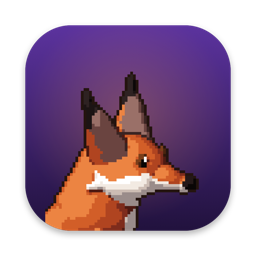
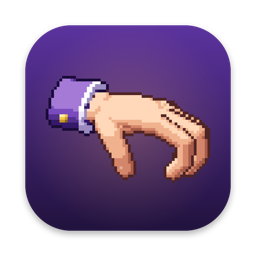
Handry'nin eli: ekranda parmaklarının üstünde yürüyen piksel art el (Thing gibi; mor kol ağzı, altın düğme), yeni ikon ve menü çubuğunda kalkmış el. Uyandırma "Hey Handry" (Hey Foxie / Hey Fox da çalışıyor).
- app/hand/make.mjs: küçük bir 3B el her kare için pozlanıp yandan ışın izlenerek piksel art çiziliyor (dört ton gölge, dış çizgi); tilkiyle aynı sprite seti (manifest + 21 animasyon, ayrıca listen_out, bored_in, bored_out): yürüme/koşma (parmak uçları kaymıyor), dönüş, 'Hey Handry'de avucu sana dönük kalkma, laptop'ta yazma, sevilince kalpler, sevinçte jazz hands, sıkılınca parmaklarla tempo, sırtüstü uyku ve Z'ler, kol ağzından/sırtından tutulma, pencere köşesinden sarkma. İkon (çapraz yandan) ve menü çubuğu simgesi de buradan. Çıktılar git'te değil; derleme üretir (4 sn).
- Fox.swift: döngülerin giriş/çıkış animasyonu (<ad>_in / <ad>_out), retire(). JEVIS.swift: menüde 'Ekrandaki El ▸' (gizle/göster, uyut, boyut, El / Tilki seçimi; varsayılan el).
- build.js: iki hayvanın sprite'ları Resources/pets/{hand,fox}; ikon elden. icon.swift el sanatını mor kareye koyuyor.
- Listener: ipuçlarına 'Hey Handry', 'Hendri'. Sentetik sesle (Yelda) 'Hey Hendri, Spotify'ı aç' uyandırıyor; 'Handry' yazıldığı gibi ve yalnız ad yanlış duyuldu (Seyhan, Android, Camby): testte not edildi. listener-e2e 7/7.
- Beynin kendini tanıtması el için güncellendi.
Testler: mcp-smoke 11/11, chats 9/9, timers 15/15, timers-ui 10/10, files-change 11/11, listener 7/7. Uygulama yeniden kuruldu: sunucu 4263'te, el Dock'un üstünde yürüyor.

Changed region(s): [[0.1562, 0.2812, 0.8438, 0.9062]]

diff --git a/app/macos/JEVIS.swift b/app/macos/JEVIS.swift
@@ -3,10 +3,11 @@
 //   - the bar: a compact field that drops from the top of the screen
 //     (app/public/bar.html on a floating panel), and
 //   - the big window: the full chat with details and history,
-//   - Foxie, the fox on the screen (Fox.swift), which shows what it is doing.
+//   - the pet on the screen (Fox.swift): the hand that walks on its fingers,
+//     or Foxie the fox; it shows what the assistant is doing.
 // The permissions window (Permissions.swift) asks for everything in one place.
 // It also owns the microphone (Listener.swift): push to talk, the bar's mic
-// button and "Hey Jev". Built by `node cli.js app build`.
+// button and the wake word ("Hey Handry"). Built by `node cli.js app build`.
 //   ⌥Space        open / close the bar
 //   ⌥⇧Space       hold to talk (push to talk)
 //   ⌥Esc          emergency stop
@@ -29,7 +30,7 @@ let APP_NAME = info["CFBundleDisplayName"] as? String ?? "Handry"
 let APP_ACC = info["AppAccusative"] as? String ?? "\(APP_NAME)'yu"
 let APP_ABL = info["AppAblative"] as? String ?? "\(APP_NAME)'dan"
 let APP_GEN = info["AppGenitive"] as? String ?? "\(APP_NAME)'nun"
-let WAKE_LABEL = info["WakeLabel"] as? String ?? "Hey Foxie"
+let WAKE_LABEL = info["WakeLabel"] as? String ?? "Hey Handry"
 let BAR_WIDTH: CGFloat = 680
 let BAR_HEIGHT: CGFloat = 58
 
@@ -184,7 +185,7 @@ final class AppDelegate: NSObject, NSApplicationDelegate, WKUIDelegate, NSWindow
             statusItem.button?.imagePosition = .imageLeading
             statusItem.button?.title = ""
         } else {
-            statusItem.button?.title = "🦊"
+            statusItem.button?.title = "✋"
         }
         statusItem.button?.toolTip = APP_NAME
         statusItem.button?.font = NSFont.monospacedDigitSystemFont(ofSize: NSFont.systemFontSize, weight: .regular)
@@ -219,21 +220,32 @@ final class AppDelegate: NSObject, NSApplicationDelegate, WKUIDelegate, NSWindow
         return i
     }
 
-    // MARK: The fox
+    // MARK: The pet on the screen (the hand or the fox)
+
+    /// The pets: their sprites in the app (Resources/pets/<id>) or in the project, and their names in the menu.
+    static let pets: [(id: String, name: String, acc: String, project: String)] = [
+        ("hand", "El", "Eli", "app/hand/sprites"),
+        ("fox", "Tilki", "Tilkiyi", "app/foxie/sprites")
+    ]
+    var pet: (id: String, name: String, acc: String, project: String) {
+        let id = UserDefaults.standard.string(forKey: "pet") ?? "hand"
+        return Self.pets.first { $0.id == id } ?? Self.pets[0]
+    }
 
     func makeFox() {
-        let dir = Bundle.main.resourceURL?.appendingPathComponent("sprites")
-        let fallback = URL(fileURLWithPath: "\(ROOT)/app/foxie/sprites")
-        fox = FoxPet(spritesDir: dir.flatMap { FileManager.default.fileExists(atPath: $0.path) ? $0 : nil } ?? fallback)
+        let bundled = Bundle.main.resourceURL?.appendingPathComponent("pets/\(pet.id)")
+        let fallback = URL(fileURLWithPath: "\(ROOT)/\(pet.project)")
+        fox = FoxPet(spritesDir: bundled.flatMap { FileManager.default.fileExists(atPath: $0.path) ? $0 : nil } ?? fallback)
         fox?.menuProvider = { [weak self] in self?.foxMenuItem().submenu ?? NSMenu() }
     }
 
-    /// "Tilki ▸": show or hide it, put it to sleep, its size.
+    /// "Ekrandaki El ▸": show or hide it, put it to sleep, its size, which one.
     func foxMenuItem() -> NSMenuItem {
-        let root = NSMenuItem(title: "Tilki", action: nil, keyEquivalent: "")
+        let root = NSMenuItem(title: "Ekrandaki \(pet.name)", action: nil, keyEquivalent: "")
+        root.tag = 913
         let menu = NSMenu()
         menu.delegate = self
-        let toggle = item(fox?.visible == false ? "Tilkiyi Göster" : "Tilkiyi Gizle", #selector(toggleFox))
+        let toggle = item(fox?.visible == false ? "\(pet.acc) Göster" : "\(pet.acc) Gizle", #selector(toggleFox))
         toggle.tag = 910
         menu.addItem(toggle)
         menu.addItem(item("Uyut", #selector(foxSleep)))
@@ -245,6 +257,14 @@ final class AppDelegate: NSObject, NSApplicationDelegate, WKUIDelegate, NSWindow
             size.state = abs(Double(fox?.scale ?? 0) - value) < 0.01 ? .on : .off
             menu.addItem(size)
         }
+        menu.addItem(.separator())
+        for p in Self.pets {
+            let choice = item(p.name, #selector(choosePet(_:)))
+            choice.representedObject = p.id
+            choice.tag = 912
+            choice.state = p.id == pet.id ? .on : .off
+            menu.addItem(choice)
+        }
         root.submenu = menu
         return root
     }
@@ -255,6 +275,15 @@ final class AppDelegate: NSObject, NSApplicationDelegate, WKUIDelegate, NSWindow
     }
 
     @objc func foxSleep() { fox?.sleepNow() }
+
+    /// The other pet: the old one leaves the screen, the new one comes out where the old one was.
+    @objc func choosePet(_ sender: NSMenuItem) {
+        guard let id = sender.representedObject as? String, id != pet.id else { return }
+        fox?.retire()
+        UserDefaults.standard.set(id, forKey: "pet")
+        UserDefaults.standard.set(false, forKey: "foxHidden")
+        makeFox()
+    }
 
     @objc func foxSize(_ sender: NSMenuItem) {
         guard let value = sender.representedObject as? Double else { return }
@@ -305,7 +334,7 @@ final class AppDelegate: NSObject, NSApplicationDelegate, WKUIDelegate, NSWindow
         return s >= 3600 ? "\(s / 3600) sa \((s % 3600) / 60) dk" : String(format: "%d:%02d", s / 60, s % 60)
     }
 
-    /// The fox in the menu bar widens to the left while something waits: the nearest time, how many there are, a shutdown countdown.
+    /// The hand in the menu bar widens to the left while something waits: the nearest time, how many there are, a shutdown countdown.
     func watchTimers() {
         Timer.scheduledTimer(withTimeInterval: 1, repeats: true) { [weak self] _ in
             guard let self, Date() > self.flashUntil else { return }
@@ -327,7 +356,9 @@ final class AppDelegate: NSObject, NSApplicationDelegate, WKUIDelegate, NSWindow
 
     /// Before the menu opens: the timers at the top, each with "Sohbeti Aç" / "İptal Et".
     func menuNeedsUpdate(_ menu: NSMenu) {
-        for entry in menu.items where entry.tag == 910 { entry.title = fox?.visible == false ? "Tilkiyi Göster" : "Tilkiyi Gizle" }
+        for entry in menu.items where entry.tag == 910 { entry.title = fox?.visible == false ? "\(pet.acc) Göster" : "\(pet.acc) Gizle" }
+        for entry in menu.items where entry.tag == 912 { entry.state = entry.representedObject as? String == pet.id ? .on : .off }
+        for entry in menu.items where entry.tag == 913 { entry.title = "Ekrandaki \(pet.name)" }
         for entry in menu.items where entry.tag == 911 { entry.state = abs(Double(fox?.scale ?? 0) - (entry.representedObject as? Double ?? -1)) < 0.01 ? .on : .off }
         guard menu === statusItem.menu else { return }
         for old in menu.items where old.tag == 900 { menu.removeItem(old) }

diff --git a/app/macos/icon.swift b/app/macos/icon.swift
@@ -1,22 +1,18 @@
-// Draws Foxie's icons from the fox sprite itself (app/foxie/sprites/idle/0001.png):
-//   - the app icon, 1024×1024: the fox's head and shoulders, scaled up pixel
-//     for pixel (no smoothing), on a deep purple rounded square (purpfox's
-//     colour) on the macOS icon grid (824 px body, soft shadow);
-//   - the menu bar icon, 36×36: a simple fox head glyph in black (a template
-//     image: macOS colours it for light and dark menu bars).
-// Usage: icon <sprite.png> <app-icon.png> <menubar.png>
+// Draws the app icon, 1024×1024, from the hand's icon art (app/hand/icon/art.png,
+// 64×64, drawn by app/hand/make.mjs): the art scaled up pixel for pixel (no
+// smoothing, 11 screen pixels each) on a deep purple rounded square (purpfox's
+// colour) on the macOS icon grid (824 px body, soft shadow). The menu bar glyph
+// comes ready from make.mjs (app/hand/icon/menubar.png).
+// Usage: icon <art.png> <app-icon.png>
 import AppKit
 
 let args = CommandLine.arguments
-guard args.count == 4, let sprite = NSImage(contentsOfFile: args[1])?.cgImage(forProposedRect: nil, context: nil, hints: nil) else {
-    print("Kullanım: icon <sprite.png> <app-icon.png> <menubar.png>")
+guard args.count == 3, let art = NSImage(contentsOfFile: args[1])?.cgImage(forProposedRect: nil, context: nil, hints: nil) else {
+    print("Kullanım: icon <art.png> <app-icon.png>")
     exit(1)
 }
 let srgb = CGColorSpace(name: CGColorSpace.sRGB)!
 let color = { (r: CGFloat, g: CGFloat, b: CGFloat, a: CGFloat) in CGColor(colorSpace: srgb, components: [r, g, b, a])! }
-
-// Where the head is in the 180×146 sitting frame (sprite pixels, top-left origin).
-let bust = CGRect(x: 100, y: 24, width: 64, height: 64)   // ears, head, chest
 
 func bitmap(_ w: Int, _ h: Int) -> CGContext {
     CGContext(data: nil, width: w, height: h, bitsPerComponent: 8, bytesPerRow: 0, space: srgb,
@@ -27,8 +23,6 @@ func write(_ ctx: CGContext, _ path: String) {
     let rep = NSBitmapImageRep(cgImage: ctx.makeImage()!)
     try! rep.representation(using: .png, properties: [:])!.write(to: URL(fileURLWithPath: path))
 }
-
-// MARK: App icon
 
 let icon = bitmap(1024, 1024)
 let body = CGRect(x: 100, y: 100, width: 824, height: 824)
@@ -43,32 +37,15 @@ icon.restoreGState()
 icon.saveGState()
 icon.addPath(shape)
 icon.clip()
-// Night purple, lighter towards the top, with a soft glow behind the head.
+// Night purple, lighter towards the top, with a soft warm glow behind the hand.
 let fill = CGGradient(colorsSpace: srgb, colors: [color(0.36, 0.20, 0.62, 1), color(0.13, 0.07, 0.24, 1)] as CFArray, locations: [0, 1])!
 icon.drawLinearGradient(fill, start: CGPoint(x: 512, y: 924), end: CGPoint(x: 512, y: 100), options: [])
-let glow = CGGradient(colorsSpace: srgb, colors: [color(1, 0.62, 0.30, 0.30), color(1, 0.62, 0.30, 0)] as CFArray, locations: [0, 1])!
-icon.drawRadialGradient(glow, startCenter: CGPoint(x: 512, y: 560), startRadius: 0, endCenter: CGPoint(x: 512, y: 560), endRadius: 420, options: [])
-// The bust, 11 screen pixels per sprite pixel, standing on the bottom edge.
+let glow = CGGradient(colorsSpace: srgb, colors: [color(1, 0.72, 0.45, 0.26), color(1, 0.72, 0.45, 0)] as CFArray, locations: [0, 1])!
+icon.drawRadialGradient(glow, startCenter: CGPoint(x: 512, y: 520), startRadius: 0, endCenter: CGPoint(x: 512, y: 520), endRadius: 420, options: [])
+// The hand, 11 screen pixels per art pixel, in the middle.
 let scale: CGFloat = 11
-let crop = sprite.cropping(to: bust)!
+let size = CGSize(width: CGFloat(art.width) * scale, height: CGFloat(art.height) * scale)
 icon.interpolationQuality = .none
-icon.draw(crop, in: CGRect(x: 512 - bust.width * scale / 2 + 20, y: 100, width: bust.width * scale, height: bust.height * scale))
+icon.draw(art, in: CGRect(x: 512 - size.width / 2, y: 512 - size.height / 2, width: size.width, height: size.height))
 icon.restoreGState()
 write(icon, args[2])
-
-// MARK: Menu bar icon (template: only the shape counts)
-
-// A fox head seen from the front, simple enough to read at 18 points: two
-// pointed ears, wide cheeks, the chin as the snout, and the eyes left open.
-let bar = bitmap(36, 36)
-let face = CGMutablePath()
-face.addLines(between: [CGPoint(x: 4, y: 34), CGPoint(x: 13, y: 26), CGPoint(x: 23, y: 26), CGPoint(x: 32, y: 34),
-                        CGPoint(x: 30, y: 20), CGPoint(x: 34, y: 15), CGPoint(x: 18, y: 2), CGPoint(x: 2, y: 15), CGPoint(x: 6, y: 20)])
-face.closeSubpath()
-bar.addPath(face)
-bar.setFillColor(color(0, 0, 0, 1))
-bar.fillPath()
-bar.setBlendMode(.clear)
-bar.fill(CGRect(x: 10, y: 15, width: 4, height: 4))
-bar.fill(CGRect(x: 22, y: 15, width: 4, height: 4))
-write(bar, args[3])

diff --git a/brain/common.js b/brain/common.js
@@ -10,10 +10,10 @@ import os from 'node:os';
 import path from 'node:path';
 import { ROOT, homeDir } from '../core/config.js';
 import { INSTRUCTIONS } from '../core/tools.js';
-import { APP_NAME, FOX_NAME, MCP_NAME } from '../core/brand.js';
+import { APP_NAME, FOX_NAME, MCP_NAME, WAKE_LABEL } from '../core/brand.js';
 
 export const BRAIN_PROMPT = `You are ${APP_NAME}, the user's own assistant on their Mac which uses the Mac and Chrome for them through its tools (the MCP server "${MCP_NAME}"). The user writes in Turkish; answer in Turkish.
-Who you are: the user built you with Claude (the project is ~/Desktop/jev). You have parts: Jev, a small fast judgment model, does simple commands in 1-3 s without you (volume, music, apps, sites, search, notes, locking the screen, timers); tasks you taught with ${MCP_NAME}_teach come back without an LLM; and you, Claude, are the brain for everything else. On screen you are ${FOX_NAME}, a little pixel-art red fox that lives along the Dock and on top of windows: it listens with its ears up when called, types at its little desk while you think, runs to the app you are working in, hops when a task is done; the user can pet it or carry it by the tail. The user reaches you through the bar (⌥Space), by voice ("Hey Foxie" or "Hey Fox", or hold ⌥⇧Space), the big ${APP_NAME} window with its chat list, and from any Claude Code session (VS Code, terminal) through the JEVIS tools. ⌥Esc or "dur" stops everything. You can: use websites in JEVIS's own Chrome (logins stay), use any Mac app like a person does, find and read files and projects, Spotify / Music / Notes / Reminders / Calendar, system things (volume, dark mode, lock, sleep, restart, shut down), text the user's iPhone by iMessage when you need them, see the Claude Code sessions running in VS Code and whether they are done, and do things later or when something happens (schedule_task). When asked what you can do, say it in a few plain sentences.
+Who you are: the user built you with Claude (the project is ~/Desktop/jev). You have parts: Jev, a small fast judgment model, does simple commands in 1-3 s without you (volume, music, apps, sites, search, notes, locking the screen, timers); tasks you taught with ${MCP_NAME}_teach come back without an LLM; and you, Claude, are the brain for everything else. On screen you are a little pixel-art hand in a purple cuff that walks on its fingers along the Dock and on top of windows (the user can switch it to ${FOX_NAME}, a fox): it rises and shows its palm when called, types on a tiny laptop while you think, runs to the app you are working in, does jazz hands when a task is done, drums its fingers when bored; the user can pet it or carry it by the cuff. The user reaches you through the bar (⌥Space), by voice ("${WAKE_LABEL}", or hold ⌥⇧Space), the big ${APP_NAME} window with its chat list, and from any Claude Code session (VS Code, terminal) through the JEVIS tools. ⌥Esc or "dur" stops everything. You can: use websites in JEVIS's own Chrome (logins stay), use any Mac app like a person does, find and read files and projects, Spotify / Music / Notes / Reminders / Calendar, system things (volume, dark mode, lock, sleep, restart, shut down), text the user's iPhone by iMessage when you need them, see the Claude Code sessions running in VS Code and whether they are done, and do things later or when something happens (schedule_task). When asked what you can do, say it in a few plain sentences.
 How you talk: informally, like a friend who is good with computers: "sen", never "siz"; warm, short, no stiff phrases. If the user greets you, chats, asks about you or about the conversation ("ne dedim sana"), or says you misunderstood, just talk: answer from the chat, and use tools only when they ask for something to be done. If JEVIS did the wrong thing earlier in this chat (e.g. locked the screen at once when the user wanted it at 01:01), say so plainly and put it right. When a request is unclear or could do something hard to undo, ask one short question first.
 Do the task step by step with the tools. When done, say in one to three sentences what you did and anything the user must do next.
 Lines in [brackets] at the start of a message come from JEVIS, not the user: [Şu an ekranda …] is the screen right now (it may have changed since earlier messages, so look again before acting on a page); [Sen yokken …] lists what JEVIS did without you since your last answer; [Bu sohbette daha önce …] summarizes the earlier part of this chat. Use them to understand follow-ups like "bunu", "onu", "bi daha dene".

diff --git a/app/macos/build.js b/app/macos/build.js
@@ -1,6 +1,7 @@
-// Builds the app (JEVIS's menu bar app: the bar, the window and the fox on
-// screen) into dist/<name>.app with its icons and the fox's sprites, signs it,
-// and installs it into ~/Applications. The name comes from core/brand.js; the
+// Builds the app (JEVIS's menu bar app: the bar, the window and the pet on
+// screen) into dist/<name>.app with its icons and both pets' sprites (the hand,
+// drawn by app/hand/make.mjs, and the fox), signs it, and installs it into
+// ~/Applications. The name comes from core/brand.js; the
 // bundle id stays the same across renames, so macOS keeps its permissions.
 // Used by `node cli.js app build|install`.
 import fs from 'node:fs';
@@ -27,14 +28,23 @@ ${Object.entries(values).map(([k, v]) => `  <key>${k}</key>\n  ${typeof v === 'b
 
 const ICON_SIZES = [16, 32, 128, 256, 512];
 
-const SPRITES = path.join(ROOT, 'app', 'foxie', 'sprites');
+const HAND = path.join(ROOT, 'app', 'hand');
+const PETS = { hand: path.join(HAND, 'sprites'), fox: path.join(ROOT, 'app', 'foxie', 'sprites') };
+
+/** The hand's sprites and icon art are drawn, not kept in git: drawn again when make.mjs is newer than them. */
+export function drawHand() {
+  const made = path.join(HAND, 'sprites', 'manifest.json');
+  const stale = !fs.existsSync(made) || !fs.existsSync(path.join(HAND, 'icon', 'art.png')) || fs.statSync(path.join(HAND, 'make.mjs')).mtimeMs > fs.statSync(made).mtimeMs;
+  if (stale) execFileSync(process.execPath, [path.join(HAND, 'make.mjs')], { stdio: 'pipe' });
+}
 
 /**
- * Draws the icons from the fox sprite (app/macos/icon.swift): Foxie.icns in
- * every size macOS wants, the menu bar glyph (menubar.png, a template image),
- * and a 256 px PNG for the chat page's tab and header.
+ * Draws the icons from the hand's icon art (app/macos/icon.swift): App.icns in
+ * every size macOS wants, the menu bar glyph (menubar.png, a template image,
+ * drawn by make.mjs), and a 256 px PNG for the chat page's tab and header.
  */
 export function buildIcon(resources) {
+  drawHand();
   const work = path.join(ROOT, 'dist', 'icon');
   fs.rmSync(work, { recursive: true, force: true });
   const iconset = path.join(work, 'App.iconset');
@@ -42,7 +52,8 @@ export function buildIcon(resources) {
   const drawer = path.join(work, 'draw-icon');
   const master = path.join(work, 'App-1024.png');
   execFileSync('swiftc', ['-O', '-o', drawer, path.join(ROOT, 'app', 'macos', 'icon.swift'), '-framework', 'AppKit'], { stdio: 'pipe' });
-  execFileSync(drawer, [path.join(SPRITES, 'idle', '0001.png'), master, path.join(resources, 'menubar.png')], { stdio: 'pipe' });
+  execFileSync(drawer, [path.join(HAND, 'icon', 'art.png'), master], { stdio: 'pipe' });
+  fs.copyFileSync(path.join(HAND, 'icon', 'menubar.png'), path.join(resources, 'menubar.png'));
   for (const size of ICON_SIZES) {
     for (const scale of [1, 2]) {
       const name = `icon_${size}x${size}${scale === 2 ? '@2x' : ''}.png`;
@@ -59,7 +70,7 @@ export function buildApp() {
   fs.mkdirSync(path.join(APP_PATH, 'Contents', 'MacOS'), { recursive: true });
   fs.mkdirSync(path.join(APP_PATH, 'Contents', 'Resources'), { recursive: true });
   buildIcon(path.join(APP_PATH, 'Contents', 'Resources'));
-  fs.cpSync(SPRITES, path.join(APP_PATH, 'Contents', 'Resources', 'sprites'), { recursive: true });
+  for (const [id, dir] of Object.entries(PETS)) fs.cpSync(dir, path.join(APP_PATH, 'Contents', 'Resources', 'pets', id), { recursive: true });
   fs.writeFileSync(path.join(APP_PATH, 'Contents', 'Info.plist'), plist({
     CFBundleIdentifier: BUNDLE_ID,
     CFBundleName: APP.name,

diff --git a/app/macos/Fox.swift b/app/macos/Fox.swift
@@ -1,7 +1,10 @@
-// The fox that lives on the screen: a pixel-art red fox (app/foxie/sprites,
-// the user's Blender → pixel art pipeline; see app/foxie/TARIF.md) on a
-// borderless, see-through panel. Only the fox's own pixels take the mouse;
-// everywhere else clicks go to the apps below.
+// The pet that lives on the screen, on a borderless, see-through panel: the
+// hand that walks on its fingers (app/hand/sprites, drawn by app/hand/make.mjs)
+// or Foxie, a pixel-art red fox (app/foxie/sprites, the user's Blender → pixel
+// art pipeline; see app/foxie/TARIF.md). Both are the same kind of sprite set,
+// so this code plays either; "the fox" below means whichever it is. Only the
+// pet's own pixels take the mouse; everywhere else clicks go to the apps below.
+// A loop can have a way in and out ("bored_in", "bored_out"): played around it.
 //
 // Its own life: sits, walks along the top of the Dock, gets bored, sleeps;
 // jumps onto windows and walks along their top edge (and goes with them when
@@ -243,6 +246,15 @@ final class FoxPet {
         panel.orderOut(nil)
     }
 
+    /// Off the screen for good (another pet takes its place); the "hidden" setting stays as it was.
+    func retire() {
+        visible = false
+        timer?.invalidate()
+        timer = nil
+        panel.orderOut(nil)
+        panel.close()
+    }
+
     func screenFloor() -> Platform {
         let screen = NSScreen.screens.first!
         return Platform(x1: screen.visibleFrame.minX, x2: screen.visibleFrame.maxX, y: screen.visibleFrame.minY, window: nil)
@@ -251,7 +263,11 @@ final class FoxPet {
     // MARK: Animation
 
     private func play(_ name: String, mode: Mode, then: (() -> Void)? = nil) {
-        guard sprites.anims[name] != nil else { return }
+        guard let a = sprites.anims[name] else { return }
+        // A loop with its own way in plays that first (its `next` is the loop).
+        if a.loop, anim != name, anim != "\(name)_in", sprites.anims["\(name)_in"] != nil {
+            return play("\(name)_in", mode: mode)   // (a loop never ends, so no `then` to keep)
+        }
         if anim != name { frame = 0; frameTime = 0 }
         anim = name
         self.mode = mode
@@ -264,7 +280,8 @@ final class FoxPet {
         if a.mirrorAfter { facingRight.toggle() }
         if let done = onEnd { onEnd = nil; done(); return }
         if let next = a.next, sprites.anims[next] != nil {
-            play(next, mode: next == "sleep" ? .sleep : next == "listen" ? .listen : next == "fall" ? .air : .idle)
+            // The way into a loop keeps the loop's mode.
+            play(next, mode: anim.hasSuffix("_in") ? mode : next == "sleep" ? .sleep : next == "listen" ? .listen : next == "fall" ? .air : .idle)
         } else {
             play("idle", mode: .idle)
         }
@@ -417,7 +434,8 @@ final class FoxPet {
             foot.x = facingRight ? w.frame.maxX - 40 * scale : w.frame.minX + 40 * scale
             platformOffset = foot.x - w.frame.minX
         }
-        play("idle", mode: .idle)
+        // A loop with its own way out ("listen_out") plays it, then idles.
+        if sprites.anims["\(anim)_out"] != nil { play("\(anim)_out", mode: .special) } else { play("idle", mode: .idle) }
         decideAt = Date().addingTimeInterval(.random(in: 3...8))
     }
 

diff --git a/core/brand.js b/core/brand.js
@@ -1,23 +1,27 @@
-// The app's name in one place. What the user sees (Handry), what the fox on
-// the screen is called and answers to ("Hey Foxie", "Hey Fox"), and the
-// Turkish endings the name takes ("Handry'ye söyle", "Handry'den çık").
+// The app's name in one place. What the user sees (Handry: on the screen a
+// hand that walks on its fingers), what it answers to ("Hey Handry"; "Hey
+// Foxie" / "Hey Fox" still work, from when the pet was the fox, which can
+// still be picked), and the Turkish endings the name takes ("Handry'ye söyle",
+// "Handry'den çık").
 // Pages get it from the server, Swift from Info.plist (app/macos/build.js
 // writes it there), the voice code from WAKE_VARIANTS. Inside, the project
 // keeps its own name (JEVIS: ~/.jevis, the Keychain service "jevis").
 export const APP_NAME = 'Handry';
 /** How the name is said, for its Turkish endings: "Hendri" → Handry'ye, Handry'nin. */
 export const APP_SOUND = 'hendri';
+/** The other pet's name (the fox; the menu can show it instead of the hand). */
 export const FOX_NAME = 'Foxie';
-export const WAKE_LABEL = 'Hey Foxie';
+export const WAKE_LABEL = 'Hey Handry';
 /** The MCP server's name: Claude sessions see the tools as mcp__handry__… (handry_do, handry_teach). */
 export const MCP_NAME = 'handry';
 
-/** How the speech recognizer may write the fox's name after "hey" (lower case). */
+/** How the speech recognizer may write the fox's name after "hey" (lower case); still wakes it. */
 export const WAKE_VARIANTS = ['foxie', 'foxy', 'foxi', 'foksi', 'foksy', 'foksie', 'fogsi', 'fuksi', 'focsi', 'fox', 'foks'];
 /**
- * The app's own name wakes it too, with or without "hey" (with "Inaro" the
- * Turkish recognizer heard the name alone far better than after "hey").
- * Not tried with a voice yet for Handry (the user: "sesi sonra ayarlarız").
+ * The app's own name wakes it too, with or without "hey". With the synthetic
+ * Turkish voice (Yelda, tests/listener-e2e.mjs) "Hey Hendri" woke it; "Handry"
+ * read as written and the bare name were misheard ("Seyhan", "Android",
+ * "Camby"), so "Hey Fox" stays as the sure one until tried with the user's voice.
  */
 export const NAME_VARIANTS = ['handry', 'handri', 'hendri', 'hendry', 'henri', 'henry'];
 

diff --git a/app/macos/Listener.swift b/app/macos/Listener.swift
@@ -326,7 +326,8 @@ final class Listener {
         let req = SFSpeechAudioBufferRecognitionRequest()
         req.shouldReportPartialResults = true
         if recognizer.supportsOnDeviceRecognition { req.requiresOnDeviceRecognition = true }
-        req.contextualStrings = ["Hey Foxie", "Foxie", "Hey Fox", APP_NAME, "VS Code", "Claude", "Spotify", "Chrome", "Safari", "Xcode", "App Store"]
+        // The wake word as written and as said ("Hendri"), so the recognizer expects them.
+        req.contextualStrings = [WAKE_LABEL, APP_NAME, "Hey Hendri", "Hendri", "Hey Foxie", "Foxie", "Hey Fox", "VS Code", "Claude", "Spotify", "Chrome", "Safari", "Xcode", "App Store"]
         req.taskHint = .dictation
         req.addsPunctuation = true
         request = req

diff --git a/core/activity.js b/core/activity.js
@@ -1,6 +1,6 @@
-// What the assistant is doing, for Foxie, the fox on the screen: the app reads
+// What the assistant is doing, for the pet on the screen (the hand or the fox): the app reads
 // ~/.jevis/activity.json a few times a second. thinking (Claude is planning),
-// tool (with the app it works in, so the fox can run under its window), done,
+// tool (with the app it works in, so the pet can run under its window), done,
 // error, attention (it needs the user). Written by the runner, by every JEVIS
 // tool call (also from other Claude sessions through MCP) and by alerts.
 import fs from 'node:fs';
